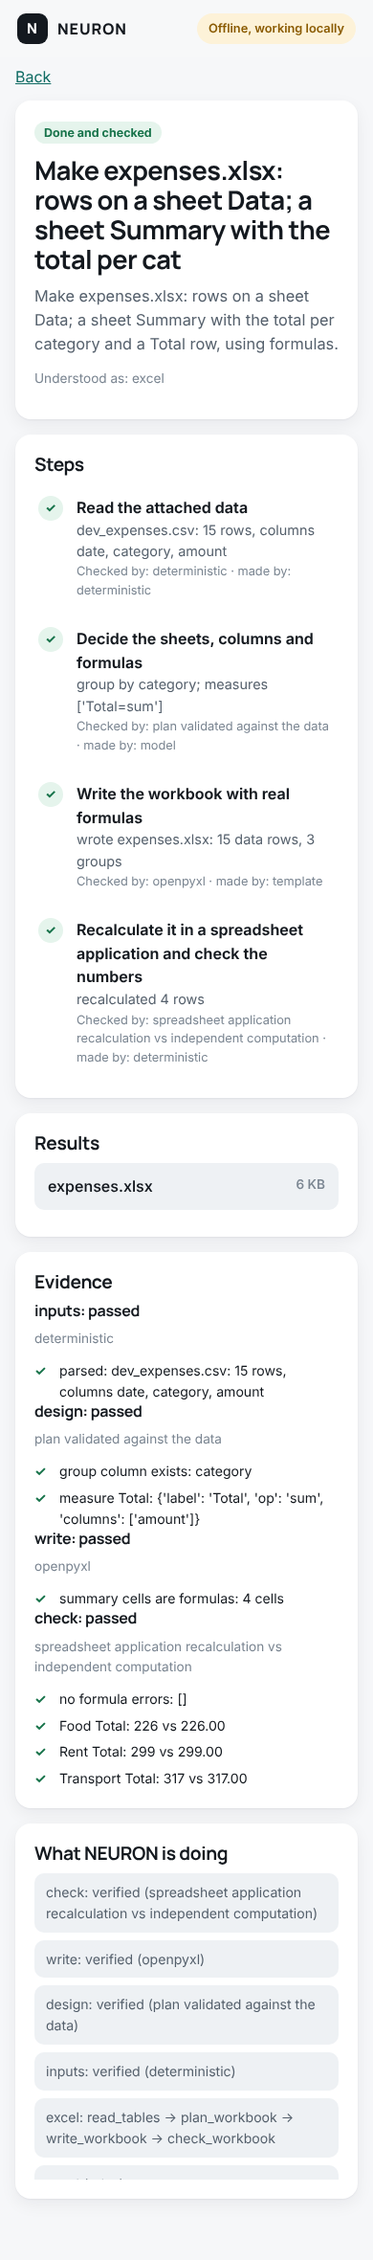
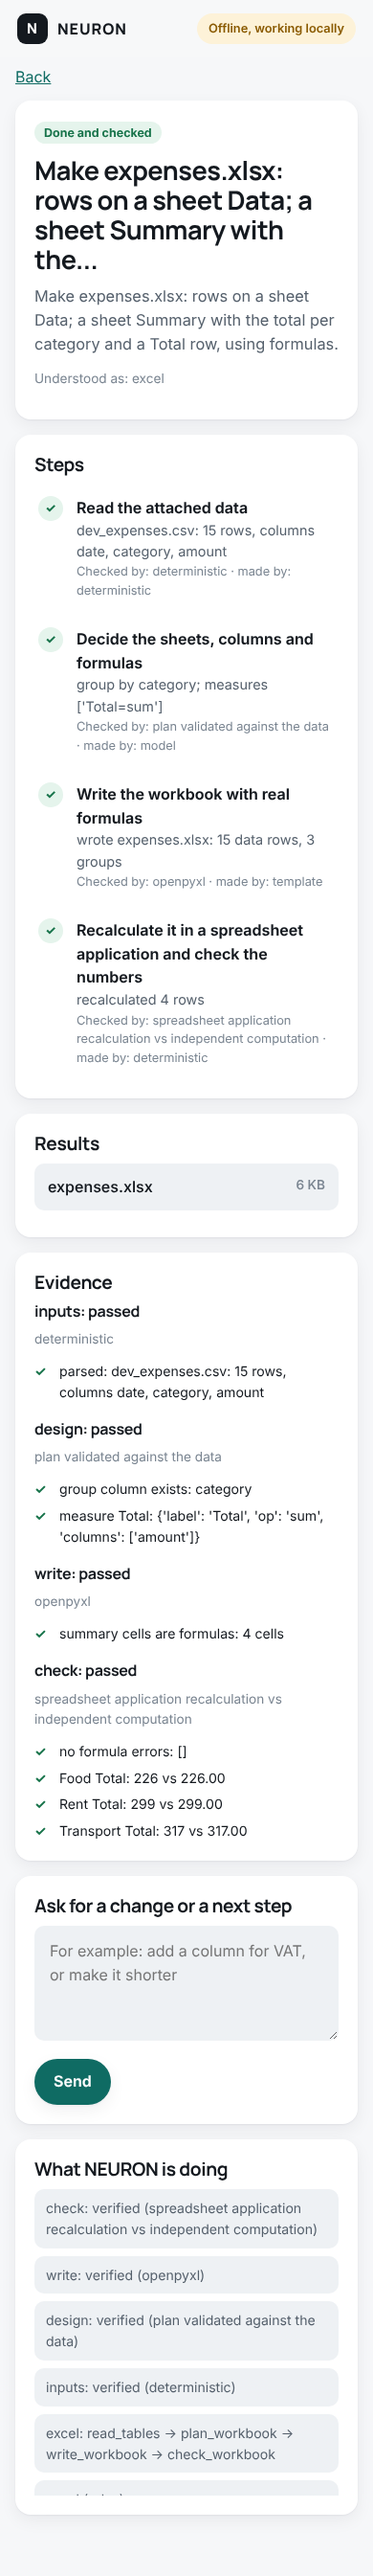
Phone: follow-ups turn jobs into a conversation
'Ask for a change or a next step' on a finished job starts a new job with the earlier
job's files and the earlier requests; the job page shows the conversation so far.
Tested on the server and in the phone-size browser journey (screenshot 3b-follow-up).
Found by the test: a method name clashed with the job manager's worker thread.

Claude-Session: https://claude.ai/code/session_01CW5ZWRippdYyCiJBtxjS7n

diff --git a/neuron/server/ui/app.js b/neuron/server/ui/app.js
@@ -66,8 +66,12 @@ async function jobView(id) {
     const ev = (await api(`/api/jobs/${id}/events?after=${after}`)).events; if (ev.length) { after = ev[ev.length - 1].seq; feed = feed.concat(ev).slice(-60); }
     const live = ['queued', 'running'].includes(j.status);
     const outs = (j.outputs || []).filter(o => !o.path.startsWith('app/') || o.path === 'app/app.py');
-    view.innerHTML = `<p><a href="#/">Back</a></p><section class="card"><span class="badge b-${j.status}">${LABEL[j.status] || j.status}</span>
-      <h1 style="margin-top:12px">${esc(j.title)}</h1><p class="lead">${esc(j.goal).slice(0, 600)}</p>
+    const earlier = (j.thread || []).filter(t => t.id !== j.id);
+    view.innerHTML = `<p><a href="#/">Back</a></p>
+      ${earlier.length ? `<section class="card thread"><h2>Earlier in this conversation</h2>${earlier.map(t => `<a class="said" href="#/job/${t.id}">
+        <span>${esc(t.said).slice(0, 160)}</span><span class="badge b-${t.status}">${LABEL[t.status] || t.status}</span></a>`).join('')}</section>` : ''}
+      <section class="card"><span class="badge b-${j.status}">${LABEL[j.status] || j.status}</span>
+      <h1 style="margin-top:12px">${esc(j.title)}</h1>${(j.request || j.goal) !== j.title ? `<p class="lead">${esc(j.request || j.goal).slice(0, 600)}</p>` : ''}
       ${j.kind ? `<p class="note">Understood as: ${esc(j.kind.replace('_', ' '))}</p>` : ''}
       <div class="row">${live ? `<button class="btn danger small" id="stop">Stop</button>` : ''}
       ${['paused', 'failed', 'partial'].includes(j.status) ? `<button class="btn small" id="resume">Resume</button>` : ''}
@@ -85,7 +89,14 @@ async function jobView(id) {
       ${j.evidence.length ? `<section class="card"><h2>Evidence</h2>${j.evidence.slice(-4).map(e => `<h3>${esc(e.task)}: ${e.passed ? 'passed' : 'failed'}</h3>
         <p class="note">${esc(e.how)}</p><div class="checks">${e.checks.map(c => `<div class="ck"><b class="${c.pass ? 'ok' : 'no'}">${c.pass ? '✓' : '✗'}</b>
         <span>${esc(c.id.replace(/_/g, ' '))}${c.detail ? ': ' + esc(c.detail) : ''}</span></div>`).join('')}</div>`).join('')}</section>` : ''}
+      ${!live && j.status !== 'draft' ? `<section class="card"><h2>Ask for a change or a next step</h2>
+        <textarea id="more" aria-label="Follow-up" placeholder="For example: add a column for VAT, or make it shorter"></textarea>
+        <div class="row"><button class="btn primary" id="send">Send</button></div><div id="msg2"></div></section>` : ''}
       <section class="card"><h2>What NEURON is doing</h2><div class="feed">${feed.slice().reverse().map(e => `<div>${esc(e.text)}</div>`).join('') || '<p class="note">Nothing yet</p>'}</div></section>`;
+    $('#send')?.addEventListener('click', async () => { const text = $('#more').value.trim(); if (!text) return;
+      $('#send').disabled = true;
+      try { const r = await api(`/api/jobs/${id}/followup`, { method: 'POST', json: { text } }); location.hash = `#/job/${r.id}`; }
+      catch (e) { $('#msg2').innerHTML = `<div class="err">${esc(e.message)}</div>`; $('#send').disabled = false; } });
     $('#stop')?.addEventListener('click', () => api(`/api/jobs/${id}/stop`, { method: 'POST' }).then(draw));
     $('#resume')?.addEventListener('click', () => api(`/api/jobs/${id}/start`, { method: 'POST' }).then(draw));
     $('#preview')?.addEventListener('click', async () => { const r = await api(`/api/jobs/${id}/preview`, { method: 'POST' });

diff --git a/tests/ui_journey.js b/tests/ui_journey.js
@@ -60,6 +60,15 @@ async function audit(page, name) {
       note('download ' + (ok ? 'worked' : 'failed'));
       if (!ok) problem('download failed');
     }
+    await page.fill('#more', 'Also add the number of expenses per category.');
+    await page.click('#send');
+    await page.waitForSelector('.thread .said');
+    note('follow-up sent: earlier request shown in the conversation');
+    await page.waitForFunction(() => /Done and checked|Not done|Partly done/.test(document.querySelector('.card:not(.thread) .badge')?.textContent || ''), null, { timeout: 180000 });
+    note('follow-up finished: ' + (await page.textContent('.card:not(.thread) .badge')));
+    await audit(page, '3b-follow-up');
+    await page.click('.thread .said');
+    await page.waitForSelector('#more');
     const checks = await page.$$eval('.ck b.ok', els => els.length);
     note(`evidence checks shown as passed: ${checks}`);
     if (!checks) problem('no evidence shown');

diff --git a/neuron/server/ui/app.css b/neuron/server/ui/app.css
@@ -42,3 +42,5 @@ padding:16px 18px;text-decoration:none;color:var(--ink)}.item .t{font-weight:600
 .note{color:var(--soft);font-size:.85rem}.err{background:var(--bad-bg);color:var(--bad);border-radius:var(--r-sm);padding:12px 14px;margin-top:10px}
 @media(min-width:700px){.stats{grid-template-columns:repeat(4,1fr)}h1{font-size:2rem}}
 .answer{white-space:pre-wrap;font-size:1rem;line-height:1.55}
+.thread .said{display:flex;justify-content:space-between;gap:10px;align-items:center;padding:10px 0;color:inherit;text-decoration:none}
+.thread .said+.said{margin-top:2px}

diff --git a/neuron/server/jobs.py b/neuron/server/jobs.py
@@ -73,6 +73,27 @@ class JobManager:
                                                   "created": time.time(), "updated": time.time(), "files": []}))
         return jid
 
+    def follow_up(self, jid, text):
+        """A follow-up in the same conversation: a new job that starts with the earlier job's files and knows
+        what was asked before. The earlier job is left as it was."""
+        try:
+            old = self.meta(jid)
+        except OSError:
+            raise KeyError(jid) from None
+        thread = self.conversation(jid)
+        before = "\n".join(f"- {j['goal'][:400]}" for j in thread)
+        goal = f"{text.strip()}\n\nEarlier requests in this conversation (their files are in this folder):\n{before}"
+        new = self.create(goal)
+        src, dst = self._path(jid) / "workspace", self._path(new) / "workspace"
+        shutil.copytree(src, dst, dirs_exist_ok=True, ignore=shutil.ignore_patterns(".neuron", "__pycache__", "data.db*"))
+        self._meta(new, title=short_title(text), parent=jid, thread=old.get("thread") or jid, request=text.strip())
+        return new
+
+    def conversation(self, jid):
+        """Every job in the same conversation as jid, oldest first."""
+        root = self.meta(jid).get("thread") or jid
+        return sorted((m for m in self.all() if m["id"] == root or m.get("thread") == root), key=lambda m: m["created"])
+
     def add_file(self, jid, name, data, max_bytes=200 * 1024 * 1024):
         name = Path(name).name
         if not name or len(data) > max_bytes:
@@ -168,7 +189,8 @@ class JobManager:
                 "approvals": [a for a in st.approvals() if a["status"] == "pending"] if st.exists() else [],
                 "evidence": [{"task": e["task"], "passed": e["passed"], "how": e["how"],
                               "checks": [{"id": c["id"], "pass": c["pass"], "detail": str(c["detail"])[:160]} for c in e["checks"][:12]]} for e in evidence],
-                "outputs": self.outputs(jid), "answer": self._answer(jid)}
+                "outputs": self.outputs(jid), "answer": self._answer(jid),
+                "thread": [{"id": t["id"], "said": t.get("request") or t["goal"], "status": t["status"]} for t in self.conversation(jid)]}
 
     def _answer(self, jid):
         """A written answer (questions, document questions) is shown on the phone directly, like a chat reply."""

diff --git a/tests/test_server.py b/tests/test_server.py
@@ -212,3 +212,30 @@ class PreviewTests(unittest.TestCase):
         self.assertEqual(s, 200)
         self.assertNotIn(b"neuron_token", body)
         self.assertNotIn(b"neuron_preview", body)
+
+
+class FollowUpTests(unittest.TestCase):
+    def test_follow_up_keeps_the_conversation_and_the_files(self):
+        home = Path(tempfile.mkdtemp(prefix="neuron-home-"))
+        httpd, base = start(home, ["The sky scatters blue light most.", "Sunsets look red because light travels further."])
+        self.addCleanup(httpd.shutdown)
+        c = Client(base)
+        c.call("POST", "/api/pair", {"code": httpd.neuron["pairing"].new_code()})
+        s, d = c.call("POST", "/api/jobs", {"goal": "Why is the sky blue?"})
+        first = d["id"]
+        c.call("POST", f"/api/jobs/{first}/start")
+        wait_for(c, first, ("done",))
+        self.assertEqual(c.call("POST", f"/api/jobs/{first}/followup", {"text": ""})[0], 400)
+        s, d = c.call("POST", f"/api/jobs/{first}/followup", {"text": "And why are sunsets red?"})
+        self.assertEqual(s, 201)
+        second = d["id"]
+        d = wait_for(c, second, ("done",))
+        self.assertEqual([t["id"] for t in d["thread"]], [first, second])
+        self.assertEqual(d["thread"][1]["said"], "And why are sunsets red?")
+        self.assertEqual(d["title"], "And why are sunsets red?")
+        meta = json.loads((home / "jobs" / second / "meta.json").read_text())
+        self.assertIn("Why is the sky blue?", meta["goal"])                   # the new job knows what came before
+        self.assertIn("sunsets look red", d["answer"].lower())
+        old = json.loads((home / "jobs" / first / "meta.json").read_text())
+        self.assertEqual(old["status"], "done")                                # the earlier job is untouched
+        self.assertEqual(c.call("POST", "/api/jobs/nope-123/followup", {"text": "x"})[0], 404)

diff --git a/tests/test_server_ui.py b/tests/test_server_ui.py
@@ -22,7 +22,7 @@ class PhoneJourney(unittest.TestCase):
     def test_phone_journey(self):
         home = Path(tempfile.mkdtemp(prefix="neuron-ui-"))
         plan = {"group_by": "category", "measures": [{"label": "Total", "op": "sum", "columns": ["amount"]}], "total_row": True, "share_of": ""}
-        httpd = serve(home, "127.0.0.1", 0, lambda: Runner([json.dumps(plan)]), lambda: Sandbox(timeout=60, mem_mb=512), default_registry(),
+        httpd = serve(home, "127.0.0.1", 0, lambda: Runner([json.dumps(plan), json.dumps(dict(plan, measures=plan["measures"] + [{"label": "Count", "op": "count", "columns": ["amount"]}]))]), lambda: Sandbox(timeout=60, mem_mb=512), default_registry(),
                       models_status=lambda: {"tier": "4gb", "builder": "scripted"}, log=lambda *_: None)
         threading.Thread(target=httpd.serve_forever, daemon=True).start()
         self.addCleanup(httpd.shutdown)

diff --git a/neuron/server/app.py b/neuron/server/app.py
@@ -211,6 +211,14 @@ def make_handler(state):
                     if not goal:
                         return self._send(400, {"error": "say what you want done"})
                     return self._send(201, {"id": jobs.create(goal)})
+                m = re.fullmatch(r"/api/jobs/([\w-]+)/followup", path)
+                if m:
+                    text = str(self._json().get("text", "")).strip()
+                    if not text:
+                        return self._send(400, {"error": "say what you want changed"})
+                    new = jobs.follow_up(m.group(1), text)
+                    jobs.start(new)
+                    return self._send(201, {"id": new})
                 m = re.fullmatch(r"/api/jobs/([\w-]+)/(upload|start|stop|approve|preview)", path)
                 if not m:
                     return self._send(404, {"error": "not found"})
